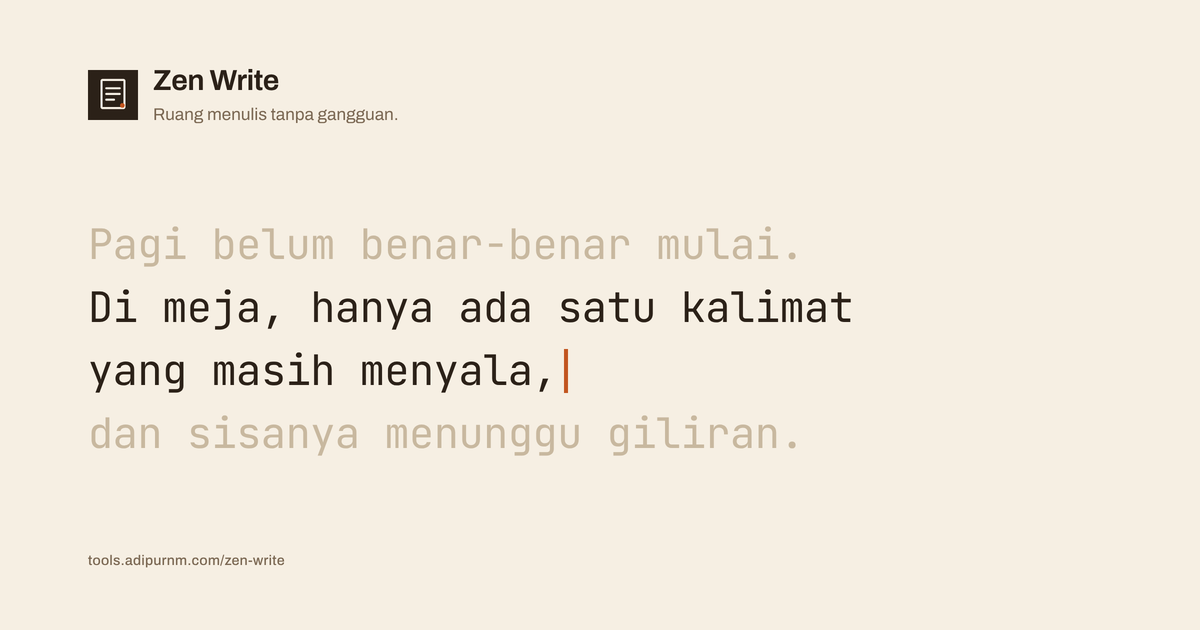
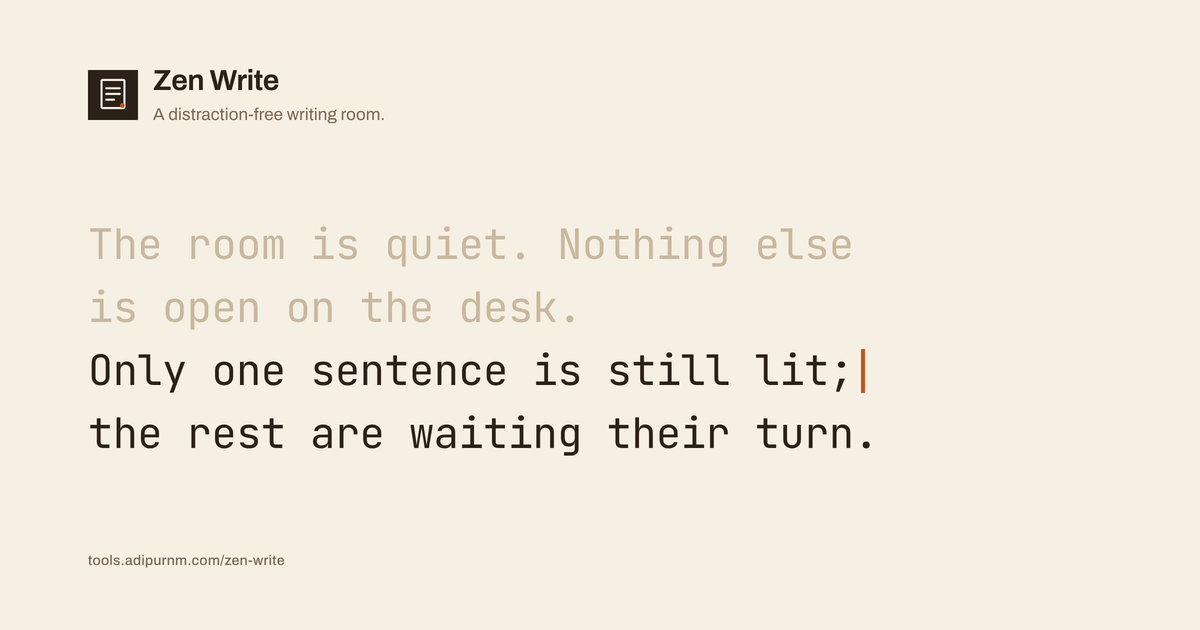
Set the share card copy in English
Matches the page's English description: the tagline and the writing sample are
now English, with the same two-line focus and caret.

diff --git a/zen-write/index.html b/zen-write/index.html
@@ -15,7 +15,7 @@ image:
   path: /zen-write/og-image.png
   width: 1200
   height: 630
-  alt: "Zen Write: satu kalimat menyala di ruang menulis yang tenang."
+  alt: "Zen Write: one sentence lit in a quiet writing room."
 twitter:
   card: summary_large_image
 ---
